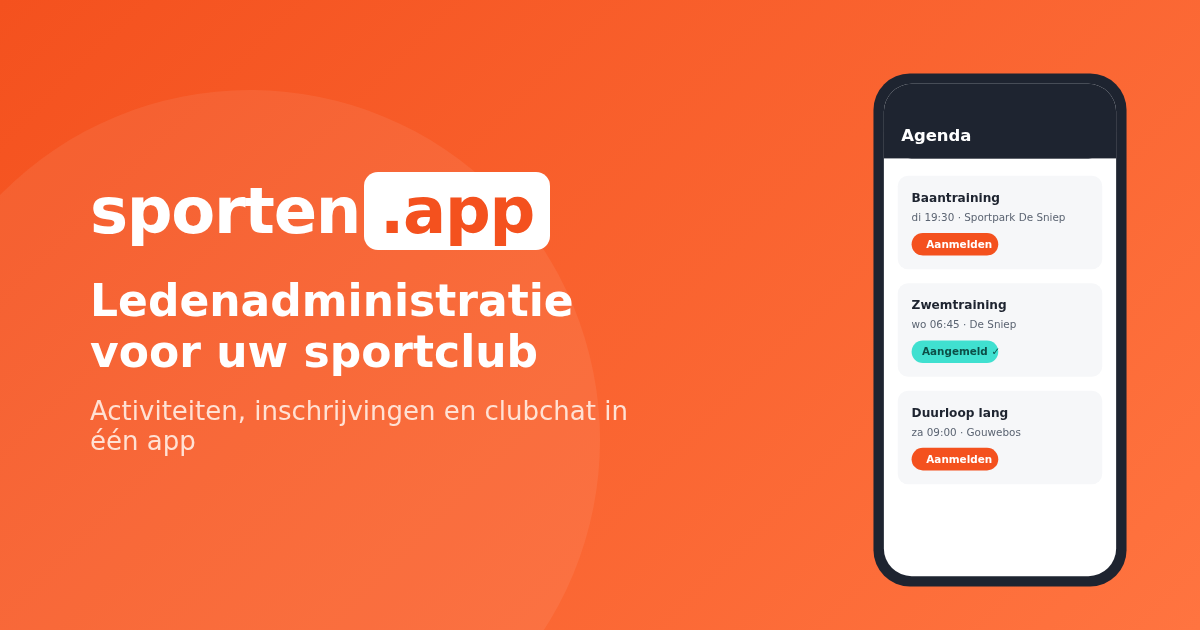
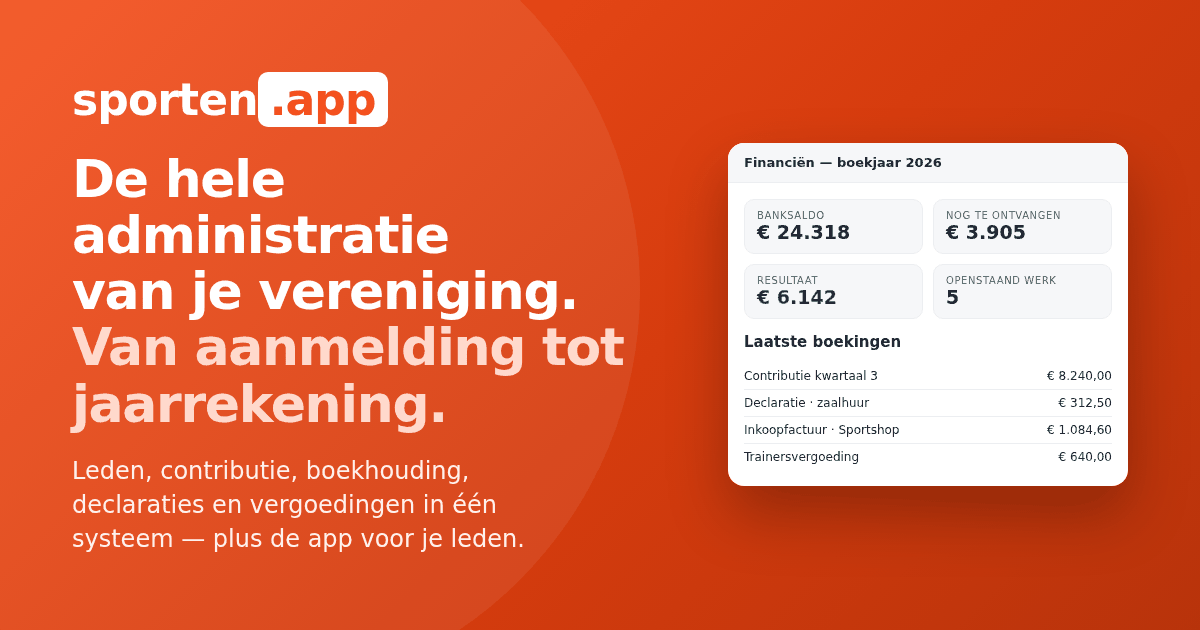
Navigatie, gedeelde bouwstenen en een deelafbeelding die de nieuwe belofte toont
De site verkocht zes functies terwijl het platform er ruim dertig heeft. Dit is de
basis waar de nieuwe pagina's op leunen: Prijzen en AVG in de navigatie, de
juridische pagina's in de voettekst, en een set klassen die op meerdere pagina's
terugkomt (zegels, staffels, tabellen, leeskolom).

De deelafbeelding beloofde nog letterlijk 'Ledenadministratie voor uw sportclub' —
de oude positionering en de u-vorm. Hij komt nu uit een sjabloon in design/og, want
een plaatje dat je niet kunt herzien veroudert stilletjes. Kleiner is hij ook:
119 KB werd 79 KB.

diff --git a/src/styles/global.css b/src/styles/global.css
@@ -136,3 +136,82 @@ footer a:hover{color:var(--tekst)}
  .login summary{display:block;text-align:center}
  .login .keuze{position:static;box-shadow:none;margin-top:8px;min-width:0}
 }
+
+/* ===== gedeelde bouwstenen voor de pagina's uit het positioneringsvoorstel =====
+   Alleen wat op meerdere pagina's terugkomt staat hier; wat één pagina nodig heeft
+   staat in een scoped <style> in die pagina zelf (Astro schermt dat af). */
+
+/* kruimelpad — nodig zodra de URL's nesten (/functies/…) */
+.kruimels{font-size:13px;color:var(--dim);padding-top:24px}
+.kruimels a{color:var(--dim);text-decoration:underline;text-underline-offset:2px}
+.kruimels a:hover{color:var(--rood)}
+.kruimels span{margin:0 6px;opacity:.6}
+
+/* bovenkopje boven een sectiekop */
+.lint{display:inline-block;font-size:12px;font-weight:700;letter-spacing:.1em;text-transform:uppercase;color:var(--rood);margin-bottom:10px}
+
+/* opsomming met vinkjes — "wat er altijd in zit", "wat we niet zijn" */
+.opsom{list-style:none;display:grid;gap:10px;margin:18px 0}
+.opsom li{position:relative;padding-left:28px;color:var(--dim)}
+.opsom li::before{content:"";position:absolute;left:0;top:.55em;width:14px;height:8px;border-left:2.5px solid var(--rood);border-bottom:2.5px solid var(--rood);transform:rotate(-45deg)}
+.opsom.kruis li::before{content:"";width:12px;height:12px;top:.45em;border:0;background:
+  linear-gradient(45deg,transparent 44%,var(--dim) 44%,var(--dim) 56%,transparent 56%),
+  linear-gradient(-45deg,transparent 44%,var(--dim) 44%,var(--dim) 56%,transparent 56%);transform:none}
+
+/* uitgelicht kader — nuance, waarschuwing, kanttekening */
+.aandacht{border:1px solid var(--rand);border-left:3px solid var(--rood);background:var(--kaart);border-radius:10px;padding:18px 20px;margin:24px 0}
+.aandacht p{color:var(--dim);font-size:15px}
+.aandacht b{color:var(--tekst)}
+
+/* tabel die op mobiel horizontaal scrollt in plaats van de pagina te verbreden */
+.tabelwikkel{overflow-x:auto;margin:24px 0;border:1px solid var(--rand);border-radius:12px}
+table.data{border-collapse:collapse;width:100%;min-width:520px;font-size:15px;background:var(--kaart)}
+table.data th,table.data td{text-align:left;padding:12px 16px;border-bottom:1px solid var(--rand);vertical-align:top}
+table.data th{font-size:13px;text-transform:uppercase;letter-spacing:.06em;color:var(--dim);font-weight:700;white-space:nowrap}
+table.data tr:last-child td{border-bottom:0}
+table.data td.nadruk,table.data tr.nadruk td{background:var(--tint);font-weight:600;color:var(--tekst)}
+table.data .getal{text-align:right;white-space:nowrap;font-variant-numeric:tabular-nums}
+
+/* vertrouwenszegels — zelfverklaard, klikbaar naar bewijs; nadrukkelijk geen keurmerkvorm */
+.zegels{display:flex;gap:16px;flex-wrap:wrap;margin-top:8px}
+.zegel{display:flex;gap:14px;align-items:flex-start;background:var(--kaart);border:1px solid var(--rand);border-radius:12px;padding:16px 20px;min-width:250px;flex:1 1 250px}
+.zegel .merk{flex:none;width:38px;height:38px;border-radius:10px;background:var(--tint);color:var(--rood);display:flex;align-items:center;justify-content:center}
+.zegel b{display:block;font-size:15px;color:var(--tekst)}
+.zegel small{display:block;font-size:13px;color:var(--dim);line-height:1.45}
+.zegel .verder{font-size:13px;color:var(--rood);font-weight:600;margin-top:4px;display:inline-block}
+.zegel:hover{border-color:var(--rood)}
+
+/* prijsstaffels */
+.staffels{display:grid;grid-template-columns:repeat(4,1fr);gap:16px;align-items:stretch}
+.staffel{background:var(--kaart);border:1px solid var(--rand);border-radius:14px;padding:24px 22px;display:flex;flex-direction:column}
+.staffel.uitgelicht{border-color:var(--rood);box-shadow:0 8px 24px rgba(244,81,30,.14)}
+.staffel .naam{font-size:17px;font-weight:700}
+.staffel .omvang{font-size:13px;color:var(--dim);margin-bottom:14px}
+.staffel .bedrag{font-size:34px;font-weight:800;letter-spacing:-.02em;line-height:1.1}
+.staffel .per{font-size:13px;color:var(--dim);margin-bottom:12px}
+.staffel .incl{font-size:13px;color:var(--dim);border-top:1px solid var(--rand);padding-top:12px;margin-top:auto}
+.staffel .vlag{display:inline-block;font-size:11px;font-weight:700;letter-spacing:.08em;text-transform:uppercase;color:#fff;background:var(--rood);border-radius:999px;padding:3px 10px;margin-bottom:8px}
+
+@media(max-width:980px){.staffels{grid-template-columns:repeat(2,1fr)}}
+@media(max-width:560px){.staffels{grid-template-columns:1fr}}
+
+/* Leeskolom die links uitlijnt met de rest van de pagina.
+   `.proza` centreert zichzelf (het ís een smallere `.container`) en dat klopt op een
+   pagina die alleen tekst draagt. Op een pagina die tekstblokken afwisselt met
+   kaarten of tabellen op volle breedte springt de linkerkantlijn daardoor heen en
+   weer; `.lees` houdt dezelfde leesbreedte maar begint waar de container begint. */
+.lees{max-width:760px}
+.lees h2{overflow-wrap:break-word}
+.lees p,.lees li{color:var(--dim)}
+.lees h2{font-size:22px;margin:32px 0 8px}
+.lees h2:first-child{margin-top:0}
+.lees h3{font-size:17px;margin:22px 0 6px}
+.lees ul:not(.opsom){padding-left:22px;margin:10px 0}
+.lees a{color:var(--rood)}
+
+/* Het openingsblok van een pagina staat direct onder de vaste navigatie en heeft daar
+   eigen ruimte nodig. `.proza` droeg die padding zelf; `.lees` niet, want die kan ook
+   middenin een pagina staan waar de sectie de ruimte al levert. */
+.kopblok{padding-top:56px;padding-bottom:4px}
+.lees h1{font-size:clamp(28px,4vw,40px);margin-bottom:16px}
+.lees .kruimels{padding-top:0;margin-bottom:12px}

diff --git a/design/og/og.html b/design/og/og.html
@@ -1,0 +1,83 @@
+<!doctype html>
+<html lang="nl">
+<head>
+<meta charset="utf-8">
+<title>Sjabloon deelafbeelding sporten.app</title>
+<!--
+  Sjabloon voor public/img/og.png (1200x630), de afbeelding die verschijnt als iemand
+  een link naar sporten.app deelt. Opnieuw maken:
+
+      node design/og/maak-og.cjs
+
+  Waarom een sjabloon en geen los bestand: de vorige deelafbeelding beloofde nog
+  "Ledenadministratie voor uw sportclub" terwijl de site inmiddels de hele
+  administratie verkoopt. Een plaatje dat je niet kunt herzien, veroudert stilletjes.
+-->
+<style>
+  @font-face { font-family: none; }
+  * { margin: 0; padding: 0; box-sizing: border-box; }
+  body {
+    width: 1200px; height: 630px; overflow: hidden;
+    font-family: system-ui, -apple-system, "Segoe UI", Roboto, sans-serif;
+    background: linear-gradient(135deg, #f4511e 0%, #d63c0e 55%, #b8330b 100%);
+    color: #fff; display: flex; align-items: center;
+  }
+  .bol {
+    position: absolute; left: -180px; top: -120px; width: 820px; height: 820px;
+    border-radius: 50%; background: rgba(255, 255, 255, .07);
+  }
+  .in { position: relative; display: flex; align-items: center; gap: 56px; padding: 0 72px; width: 100%; }
+  .tekst { flex: 1 1 auto; min-width: 0; }
+  .logo { font-size: 44px; font-weight: 800; letter-spacing: -.02em; margin-bottom: 26px; }
+  .logo span { background: #fff; color: #f4511e; border-radius: 10px; padding: 2px 12px; }
+  h1 { font-size: 52px; line-height: 1.08; letter-spacing: -.025em; font-weight: 800; }
+  h1 em { font-style: normal; display: block; color: #ffd9cc; }
+  p { margin-top: 22px; font-size: 24px; line-height: 1.42; color: rgba(255, 255, 255, .92); max-width: 20em; }
+
+  /* Het scherm rechts: dezelfde kentallen als de voorbeeldweergave op de site, zodat
+     de gedeelde link hetzelfde belooft als de pagina erachter. */
+  .scherm { flex: none; width: 400px; background: #fff; border-radius: 16px; overflow: hidden; box-shadow: 0 28px 60px rgba(0, 0, 0, .28); color: #1e2430; }
+  .balk { background: #f6f7f9; border-bottom: 1px solid #eceef1; padding: 12px 16px; font-size: 13px; font-weight: 700; }
+  .body { padding: 16px; }
+  .kop { font-size: 15px; font-weight: 800; margin-bottom: 12px; }
+  .kaartjes { display: grid; grid-template-columns: 1fr 1fr; gap: 10px; margin-bottom: 14px; }
+  .kaartjes div { background: #f6f7f9; border: 1px solid #eceef1; border-radius: 10px; padding: 10px 12px; }
+  .kaartjes small { display: block; font-size: 10px; color: #5b6472; text-transform: uppercase; letter-spacing: .06em; }
+  .kaartjes b { font-size: 19px; }
+  .groen { color: #1c7247; }
+  table { width: 100%; border-collapse: collapse; font-size: 12px; }
+  td { padding: 6px 0; border-bottom: 1px solid #eceef1; }
+  tr:last-child td { border-bottom: 0; }
+  .bedrag { text-align: right; font-variant-numeric: tabular-nums; }
+  .dim { color: #5b6472; }
+</style>
+</head>
+<body>
+  <div class="bol"></div>
+  <div class="in">
+    <div class="tekst">
+      <div class="logo">sporten<span>.app</span></div>
+      <h1>De hele administratie<br>van je vereniging.<em>Van aanmelding tot jaarrekening.</em></h1>
+      <p>Leden, contributie, boekhouding, declaraties en vergoedingen in één systeem — plus de app voor je leden.</p>
+    </div>
+    <div class="scherm">
+      <div class="balk">Financiën — boekjaar 2026</div>
+      <div class="body">
+        <div class="kaartjes">
+          <div><small>Banksaldo</small><b>€ 24.318</b></div>
+          <div><small>Nog te ontvangen</small><b>€ 3.905</b></div>
+          <div><small>Resultaat</small><b class="groen">€ 6.142</b></div>
+          <div><small>Openstaand werk</small><b>5</b></div>
+        </div>
+        <div class="kop">Laatste boekingen</div>
+        <table>
+          <tr><td>Contributie kwartaal 3</td><td class="bedrag">€ 8.240,00</td></tr>
+          <tr><td>Declaratie · zaalhuur</td><td class="bedrag">€ 312,50</td></tr>
+          <tr><td>Inkoopfactuur · Sportshop</td><td class="bedrag">€ 1.084,60</td></tr>
+          <tr><td>Trainersvergoeding</td><td class="bedrag">€ 640,00</td></tr>
+        </table>
+      </div>
+    </div>
+  </div>
+</body>
+</html>

diff --git a/design/og/verklein.py b/design/og/verklein.py
@@ -1,0 +1,22 @@
+"""Verkleint public/img/og.png naar een palet van 256 kleuren.
+
+    python3 design/og/verklein.py
+
+Een deelafbeelding wordt alleen door Facebook, LinkedIn en WhatsApp opgehaald en
+nooit door een bezoeker van de site, dus hij blokkeert niets — maar 340 KB voor een
+vlak met een verloop en wat tekst is onnodig, en een eerder ticket heeft deze
+afbeelding juist bewust verkleind. Met een palet zakt hij naar zo'n 60 KB zonder
+zichtbaar verschil; de dithering houdt het verloop glad.
+"""
+import os
+from PIL import Image
+
+pad = os.path.join(os.path.dirname(__file__), '..', '..', 'public', 'img', 'og.png')
+pad = os.path.normpath(pad)
+
+voor = os.path.getsize(pad)
+afb = Image.open(pad).convert('RGB')
+palet = afb.quantize(colors=256, method=Image.Quantize.MEDIANCUT, dither=Image.Dither.FLOYDSTEINBERG)
+palet.save(pad, optimize=True)
+na = os.path.getsize(pad)
+print('og.png: %d KB -> %d KB' % (voor // 1024, na // 1024))
